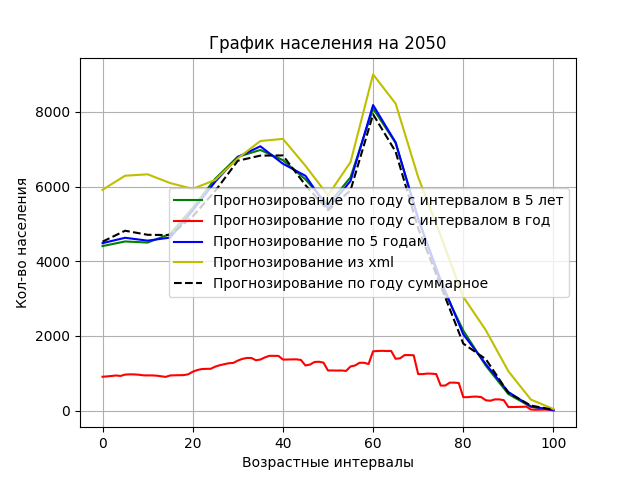
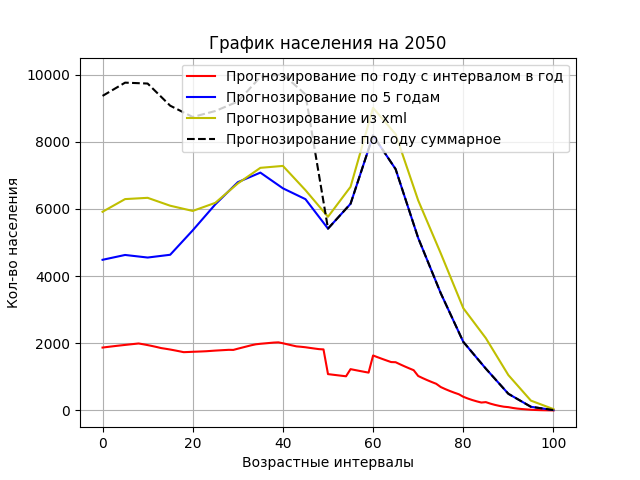
fixed bugs

diff --git a/main.py b/main.py
@@ -2,9 +2,9 @@ import sys
 import logging as log
 import os
 from data_helper import DataHelper
-import random
 from tools import *
 from plot import Plot
+import math
 
 
 class Main:
@@ -75,8 +75,7 @@ class Main:
 	def detect_female_factor(self):
 		log.info('Detect of female factor...')
 
-		children_interval = self.data[self.years[1]]['0-4']
-		count_children = children_interval['female'] + children_interval['male']
+		count_children = union_count_genders(self.data[self.years[1]]['0-4'])
 
 		self.female_factor['general'] = count_children / get_number_middle_female(self.data[self.years[0]])
 		self.factor_history[5]['female'] = self.female_factor['general']
@@ -253,9 +252,9 @@ class Main:
 			self.prediction[next_year] = new_data
 			for_prediction = new_data
 
-			if next_year % 5 == 0:
-				prediction = self.big_prediction[next_year + 5]
-				self.corrected_factors_by_year(count=6, initial_year=new_data, data_last_year=prediction)
+			# if next_year % 5 == 0:
+			# 	prediction = self.big_prediction[next_year + 5]
+			# 	self.corrected_factors_by_year(count=6, initial_year=new_data, data_last_year=prediction)
 
 		return data
 
@@ -265,37 +264,43 @@ class Main:
 		initial_year = {start_year: split_interval(self.data[start_year])}
 
 		prediction = split_interval(self.big_prediction[start_year + 10])
-		self.corrected_factors_interval_year(count=11, initial_year=initial_year[start_year], data_last_year=prediction)
+		# factors, ff = {}, self.female_factor['general'] / 5
+		factors, ff = {}, (self.female_factor['general'] * 2 / 1.4) / 5
+		for interval in sorted(self.factors, key=lambda k: int(k.split('-')[0])):
+			start = int(interval.split('-')[0])
+			value = min(math.pow(self.factors[interval], 1 / 5), 1.0)
+			for i in range(5):
+				factors[start + i] = value
+		# self.corrected_factors_interval_year(count=11, initial_year=initial_year[start_year], data_last_year=prediction)
 		self.factor_history[1].append({
-			'female': self.female_factor_by_year,
-			'factors': self.factors_interval_year.copy()
+			'female': ff,
+			'factors': factors.copy()
 		})
 
-		for_prediction = initial_year[start_year]
+		for_prediction, fm = initial_year[start_year], self.female_factor
 		for num in range(1, 101, 1):
 			if num % 20 == 0:
 				log.info('Calculating for an year and an interval in {} iteration...'.format(num))
 
-			fm = self.female_factor
-			children = self.female_factor_by_year * get_number_middle_female_year(for_prediction)
+			children = ff * get_number_middle_female_year(for_prediction)
 			new_data = {0: {'male': children * fm['male'], 'female': children * fm['female']}}
 
 			next_year = self.years[0] + num
 			data[next_year] = [int(children)]
-			for interval in sorted(self.factors_interval_year):
-				new_data[interval + 1] = new_interval(for_prediction[interval], self.factors_interval_year[interval])
+			for interval in sorted(factors):
+				new_data[interval + 1] = new_interval(for_prediction[interval], factors[interval])
 				data[next_year].append(int(union_count_genders(new_data[interval + 1])))
 
 			self.interval_prediction[next_year] = new_data
 			for_prediction = new_data
 
-			if next_year % 10 == 0 and next_year + 10 in self.big_prediction:
-				prediction = split_interval(self.big_prediction[next_year + 10])
-				self.corrected_factors_interval_year(count=11, initial_year=new_data, data_last_year=prediction)
-				self.factor_history[1].append({
-					'female': self.female_factor_by_year,
-					'factors': self.factors_interval_year.copy()
-				})
+			# if next_year % 10 == 0 and next_year + 10 in self.big_prediction:
+			# 	prediction = split_interval(self.big_prediction[next_year + 10])
+			# 	self.corrected_factors_interval_year(count=11, initial_year=new_data, data_last_year=prediction)
+			# 	self.factor_history[1].append({
+			# 		'female': self.female_factor_by_year,
+			# 		'factors': self.factors_interval_year.copy()
+			# 	})
 		return data
 
 
@@ -315,7 +320,7 @@ if __name__ == '__main__':
 	# plot.draw_compare('{}_by_interval'.format(folder), "График населения на {}", "Возрастные интервалы",
 	#                   "Кол-во населения")
 	plot.draw_factors_new("Коэффициенты \"выживаемости\"", "Возрастные интервалы", "Коэффициэнты")
-	# plot.draw_compare_with_interval('{}_by_interval'.format(folder), "График населения на {}", "Возрастные интервалы",
-	#                   "Кол-во населения")
+	plot.draw_compare_with_interval('{}_by_interval'.format(folder), "График населения на {}", "Возрастные интервалы",
+	                  "Кол-во населения")
 
 	sys.exit()

diff --git a/plot.py b/plot.py
@@ -41,31 +41,31 @@ class Plot:
 		plt.savefig('plots/factors/fig-start-factors.png')
 		plt.clf()
 
-		ax = plt.subplot()
-		ax.plot([2000], [self.main.factor_history[5]['female']], 'ob', alpha=.8, label='Коэффициэнт фертильности для 5 лет')
-		x, y, index = [], [], 2000
-		for year_data in self.main.factor_history[1]:
-			x.append(index)
-			y.append(year_data['female'])
-			index += 10
-		ax.plot(x, y, '.-g', alpha=.8, label='Коэффициэнты фертильности для года')
-		Plot.set_labels(title, x_label, y_label)
-		plt.legend()
-		plt.grid()
-		plt.savefig('plots/factors/fig-female-factor.png')
-		plt.clf()
+		# ax = plt.subplot()
+		# ax.plot([2000], [self.main.factor_history[5]['female']], 'ob', alpha=.8, label='Коэффициэнт фертильности для 5 лет')
+		# x, y, index = [], [], 2000
+		# for year_data in self.main.factor_history[1]:
+		# 	x.append(index)
+		# 	y.append(year_data['female'])
+		# 	index += 10
+		# ax.plot(x, y, '.-g', alpha=.8, label='Коэффициэнты фертильности для года')
+		# Plot.set_labels(title, x_label, y_label)
+		# plt.legend()
+		# plt.grid()
+		# plt.savefig('plots/factors/fig-female-factor.png')
+		# plt.clf()
 
-		ax, index = plt.subplot(), 2000
-		for year_data in self.main.factor_history[1]:
-			x = year_data['factors'].keys()
-			y = year_data['factors'].values()
-			ax.plot(x, y, '.-', alpha=.8, label='Факторы для {} года'.format(index))
-			index += 10
-		Plot.set_labels(title, x_label, y_label)
-		plt.legend()
-		plt.grid()
-		plt.savefig('plots/factors/fig-year-factors.png')
-		plt.clf()
+		# ax, index = plt.subplot(), 2000
+		# for year_data in self.main.factor_history[1]:
+		# 	x = year_data['factors'].keys()
+		# 	y = year_data['factors'].values()
+		# 	ax.plot(x, y, '.-', alpha=.8, label='Факторы для {} года'.format(index))
+		# 	index += 10
+		# Plot.set_labels(title, x_label, y_label)
+		# plt.legend()
+		# plt.grid()
+		# plt.savefig('plots/factors/fig-year-factors.png')
+		# plt.clf()
 
 		plt.show()
 
@@ -103,14 +103,14 @@ class Plot:
 			plt.clf()
 
 	def draw_compare_with_interval(self, folder: str, title: str, x_label: str, y_label: str):
-		for year in range(2010, 2101, 20):
+		for year in range(2010, 2101, 10):
 			log.info('Render the plot for {} year...'.format(year))
 			ax = plt.subplot()
-			x, y = [], []
-			for interval in sorted(self.main.prediction[year].keys(), key=lambda k: int(k.split('-')[0])):
-				x.append(int(interval.split('-')[0]))
-				y.append(union_count_genders(self.main.prediction[year][interval]))
-			ax.plot(x, y, 'g', label='Прогнозирование по году с интервалом в 5 лет')
+			# x, y = [], []
+			# for interval in sorted(self.main.prediction[year].keys(), key=lambda k: int(k.split('-')[0])):
+			# 	x.append(int(interval.split('-')[0]))
+			# 	y.append(union_count_genders(self.main.prediction[year][interval]))
+			# ax.plot(x, y, 'g', label='Прогнозирование по году с интервалом в 5 лет')
 
 			x, y = [], []
 			for interval in self.main.interval_prediction[year].keys():
@@ -143,7 +143,7 @@ class Plot:
 			ax.plot(x, y, 'k--', label='Прогнозирование по году суммарное')
 
 			plt.grid()
-			plt.legend()
+			plt.legend(loc='best')
 			Plot.set_labels(title.format(year), x_label, y_label)
 			plt.savefig('plots/{}/fig-{}.png'.format(folder, year))
 			plt.clf()

diff --git a/data_helper.py b/data_helper.py
@@ -95,12 +95,12 @@ class DataHelper:
 		if not self.prediction:
 			log.info('Reading of xls file: {}'.format(self.xls_file))
 			f = xlrd.open_workbook(self.xls_file)
-			predictions = self.read_xls_sheet(f, 'both;2010-50', list(range(2000, 2051, 10)))
+			predictions = self.read_xls_sheet(f, 'both;2010-50', list(range(2000, 2051, 5)))
 
 			self.prediction = {}
 			for prediction in predictions:
 				age = 0
-				y = prediction[5]
+				y = int(prediction[5])
 				self.prediction[y] = {}
 				for column in range(6, len(prediction)):
 					el = {'male': prediction[column] / 2, 'female': prediction[column] / 2}
